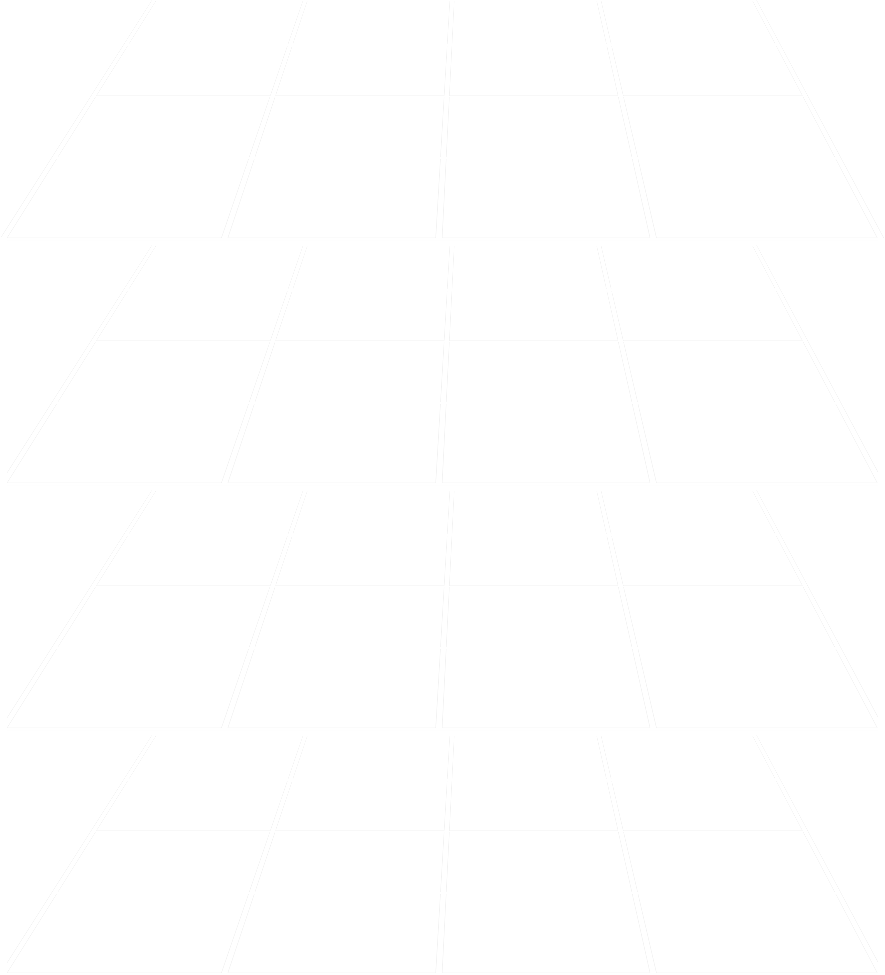
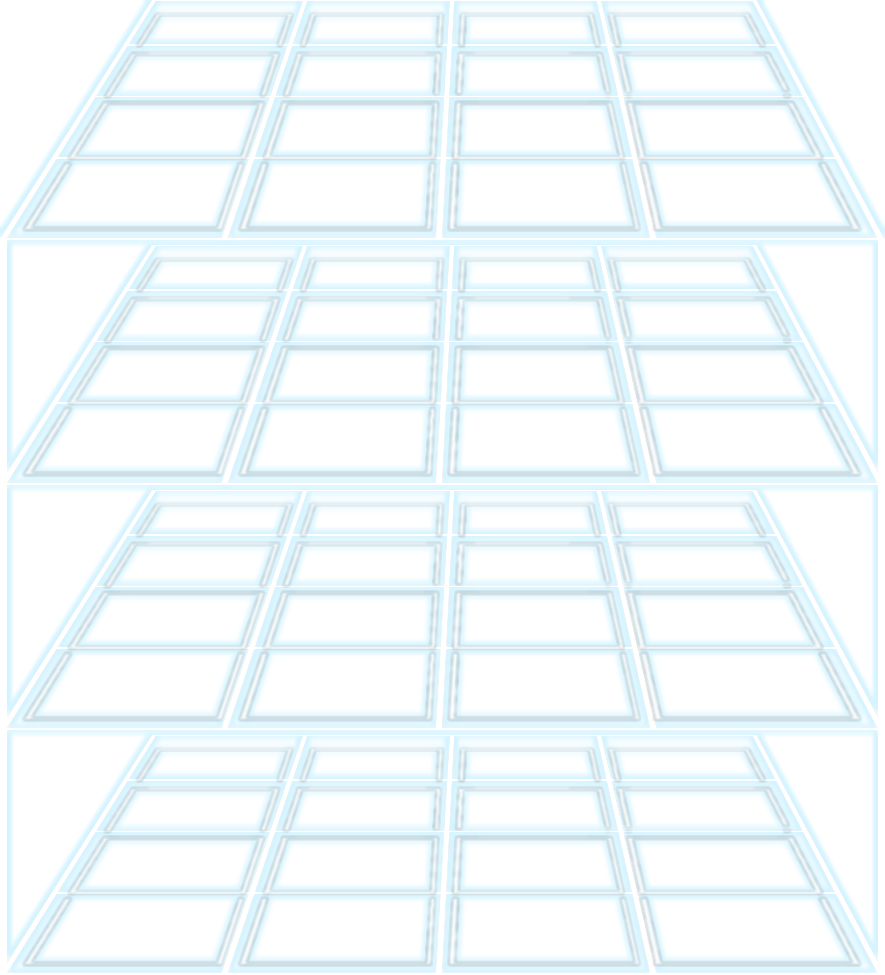
Added Shaders | Changed Sprites

diff --git a/4tec/src/TokenManager.cpp b/4tec/src/TokenManager.cpp
@@ -2,18 +2,23 @@
 
 void TokenManager::loadTextures()
 {
-	m_redTexture.loadFromFile("assets/images/redToken.png");
-	m_yellowTexture.loadFromFile("assets/images/yellowToken.png");
-	m_boardRender.create(WINDOW_WIDTH, WINDOW_HEIGHT);
-	m_boardRender.clear(sf::Color::Transparent);
+	m_manager = TextureManager::getInstance();
+	m_manager->loadTexture("red","assets/images/redToken.png");
+	m_manager->loadTexture("yellow","assets/images/yellowToken.png");
+	for (auto& t : m_boardRender)
+	{
+		t.create(WINDOW_WIDTH, WINDOW_HEIGHT);
+		t.clear(sf::Color::Transparent);
+	}
 }
 
-////////////////////////////////////////////////////////////
+///////////////////////////////////////////////////////////////////////////////
 
 void TokenManager::placePiece(uint8_t t_layer, uint8_t t_row, uint8_t t_col)
 {
+	m_boardRender[4].clear(sf::Color::Transparent);
 	sf::Vector2u tx = 
-		TextureManager::getInstance()->getTexture("board")->getSize();
+		m_manager->getTexture("board")->getSize();
 
 	float layerWidth = tx.y / 4.0f;
 	static std::array<sf::Vector2i, 16> points{ {
@@ -23,11 +28,13 @@ void TokenManager::placePiece(uint8_t t_layer, uint8_t t_row, uint8_t t_col)
 		{130,195}, {340,195}, {540,195}, {750,195}
 	}};
 
-	static std::array<float, 4> spriteScale{ .55f,.6f,.78f,1 };
+	// .55, .6, .78, 1
+	static std::array<float, 4> spriteScale{ .68f,.79f,.89f,1 };
 
 	unsigned index = 4 * t_row + t_col;
 	sf::Sprite r;
-	r.setTexture((m_red) ? m_redTexture : m_yellowTexture);
+	const char* tex = (m_red) ? "red" : "yellow";
+	r.setTexture(*m_manager->getTexture(tex));
 	sf::Vector2u texSize = r.getTexture()->getSize();
 	r.setOrigin(texSize.x / 2.0f, texSize.y / 2.0f);
 	r.setScale(spriteScale[t_row], spriteScale[t_row]);
@@ -36,8 +43,17 @@ void TokenManager::placePiece(uint8_t t_layer, uint8_t t_row, uint8_t t_col)
 	int pos = t_col;
 	r.setPosition(points[index].x, points[index].y + (layerWidth * t_layer));
 
-	m_boardRender.draw(r);
-	m_boardRender.display();
+	m_boardRender[t_row].draw(r);
+	m_boardRender[t_row].display();
 
-	m_board.setTexture(m_boardRender.getTexture());
+	sf::Sprite s;
+	for (int i = 0; i < 4; ++i)
+	{
+		s.setTexture(m_boardRender[i].getTexture());
+		m_boardRender[4].draw(s);
+	}
+
+	m_boardRender[4].display();
+
+	m_board.setTexture(m_boardRender[4].getTexture());
 }

diff --git a/4tec/src/Game.cpp b/4tec/src/Game.cpp
@@ -7,6 +7,7 @@ void Game::run()
 
 	loadFont();
 	loadTextures();
+	loadShader();
 
 	sf::Clock clock;
 	sf::Time lag = sf::Time::Zero;
@@ -49,9 +50,25 @@ void Game::loadTextures()
 {
 	TextureManager* tm = TextureManager::getInstance();
 	tm->loadTexture("board", "assets/images/board.png");
+	tm->loadTexture("shadow", "assets/images/shadow.png");
 
 	m_boardSprite.setTexture(*tm->getTexture("board"));
+	m_shadowSprite.setTexture(*tm->getTexture("shadow"));
+
 	m_tokens.loadTextures();
+}
+
+////////////////////////////////////////////////////////////
+
+void Game::loadShader()
+{
+	m_shader.loadFromFile("assets/shader/vertShader.txt", "assets/shader/fragShader.txt");
+
+	m_shader.setUniform("windowWidth", (float)WINDOW_WIDTH);
+	m_shader.setUniform("windowHeight", (float)WINDOW_HEIGHT);
+
+	m_shader.setUniform("texture", sf::Shader::CurrentTexture);
+	m_shader.setUniform("tableWidth", (float)(TextureManager::getInstance()->getTexture("board")->getSize().x));
 }
 
 ////////////////////////////////////////////////////////////
@@ -97,9 +114,10 @@ void Game::render()
 {
 	m_window->clear(sf::Color::Black);
 
-	m_window->draw(m_boardSprite);
+	m_window->draw(m_boardSprite, &m_shader);
 	m_window->draw(m_text);
-	m_window->draw(m_tokens);
+	m_window->draw(m_tokens, &m_shader);
+	//m_window->draw(m_shadowSprite);
 
 	m_window->display();
 }

diff --git a/4tec/include/TokenManager.h b/4tec/include/TokenManager.h
@@ -18,11 +18,10 @@ public:
 
 	void placePiece(uint8_t t_layer, uint8_t t_row, uint8_t t_col);
 
-	operator sf::Drawable& () { return m_board; }
+	operator sf::Drawable&() { return m_board; }
 private:
-	sf::Texture m_redTexture;
-	sf::Texture m_yellowTexture;
-	sf::RenderTexture m_boardRender;
+	TextureManager* m_manager;
+	std::array<sf::RenderTexture, 5> m_boardRender;
 	sf::Sprite m_board;
 	bool m_red{ false };
 };

diff --git a/4tec/include/Game.h b/4tec/include/Game.h
@@ -36,6 +36,8 @@ public:
 	/// </summary>
 	void loadTextures();
 
+	void loadShader();
+
 	/// <summary>
 	/// Handles system events (input, etc.)
 	/// </summary>
@@ -64,8 +66,10 @@ private:
 	sf::Font m_robotoTTF;
 	sf::Text m_text;
 
-	sf::Texture m_boardTexture;
 	sf::Sprite m_boardSprite;
+	sf::Sprite m_shadowSprite;
+
+	sf::Shader m_shader;
 
 	Board m_board;
 	TokenManager m_tokens;
